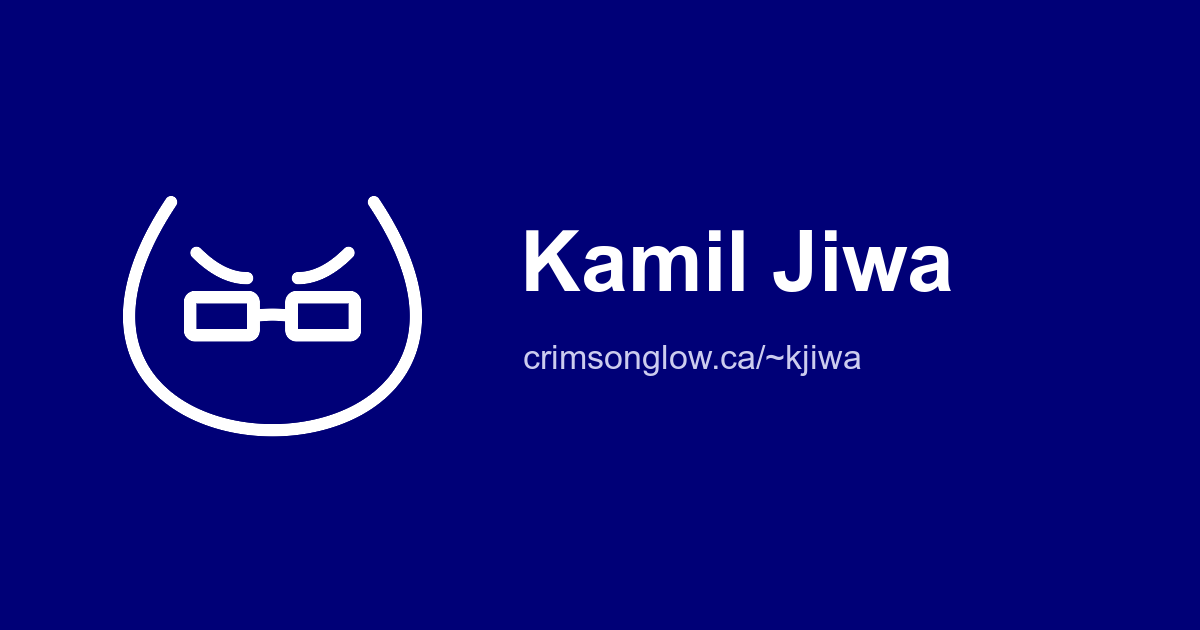
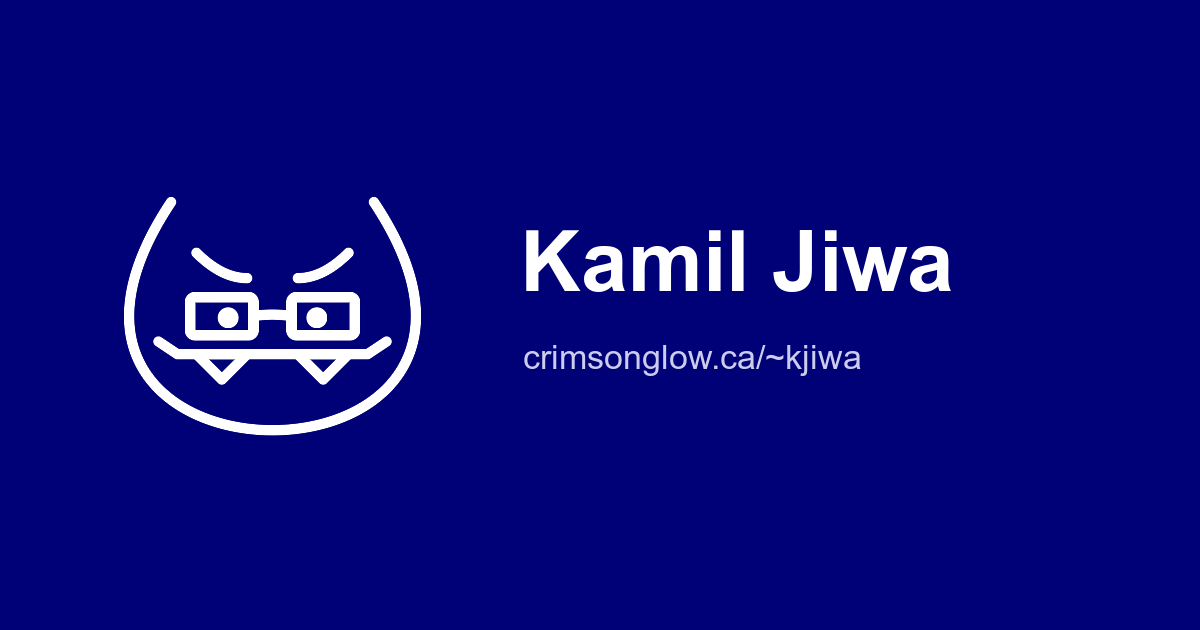
Update og-card

diff --git a/tools/og-card-glyph.py b/tools/og-card-glyph.py
@@ -1,33 +1,51 @@
 #!/usr/bin/env python3
 """Emits ImageMagick MVG draw commands for the face glyph on the social card.
 
-The glyph is the same head/glasses/eyebrows shapes used by
-_includes/avatar.svg and ~kjiwa/assets/favicon.svg, just carried through the
-same nested translate/scale transforms those files apply, then placed on the
-card canvas. See tools/og-card.sh for why this indirection exists.
+The glyph is the same head/glasses/eyebrows/eyes/mouth/teeth shapes used by
+_includes/avatar.svg, carried through the same nested translate/scale
+transforms that file applies, then placed on the card canvas. See
+tools/og-card.sh for why this indirection exists.
 
-Usage: og-card-glyph.py strokes|lenses
+_includes/avatar.svg wraps its shapes in <g transform="translate(5 5)">, so
+each shape's absolute anchor is its <use> translate plus (5, 5). The anchors
+below are those absolute positions; ~kjiwa/assets/favicon.svg's own <use>
+translates match this same frame for the shapes it keeps (head, glasses,
+eyebrows) but drops eyes/mouth/teeth for legibility at icon sizes. The card
+has room for the full set, so it draws from avatar.svg's frame directly.
+
+Usage: og-card-glyph.py strokes|lenses|eyes
 """
 
 import re
 import sys
 
-# Path data, unmodified from favicon.svg's <defs>.
+# Path/shape data, unmodified from avatar.svg's <defs>.
 HEAD = "M-20,-20 C-60,40 60,40 20,-20"
+MOUTH = "M-30,-2.5 L-25,0 L25,0 L30,-2.5"
+TOOTH = "M-5,0 L5,0 L0,5 Z"
 EYEBROW = "M-5,-2.5 Q0,2.5 5,2.5"
 BRIDGE = "M-3.75,0 Q0,-0.625 3.75,0"
 LENS_L = (-16.25, -3.75, -3.75, 3.75)  # x1, y1, x2, y2
 LENS_R = (3.75, -3.75, 16.25, 3.75)
+EYE_DX = 8.75  # circles at (+-8.75, 0), r = 1
+EYE_R = 1.0
+
+# Absolute anchors in avatar.svg's frame (each <use> translate + (5, 5)).
+A_HEAD = (35, 25)
+A_GLASSES = (35, 27.5)
+A_BROW_L = (25, 17.5)
+A_BROW_R = (45, 17.5)  # also mirrored in x
+A_EYES = (35, 27.8125)
+A_MOUTH = (35, 35)  # local x additionally scaled by 0.75
+A_TOOTH_L = (25, 35)
+A_TOOTH_R = (45, 35)
 
 # favicon.svg's group transform is translate(32,30.5) scale(0.845)
-# translate(-35,-25); each <use> adds its own translate before that, and the
-# two translates cancel except for the difference between them. Composing
-# the two leaves a plain (scale, then translate) per shape:
+# translate(-35,-25) applied on top of avatar.svg's frame; composing the two
+# leaves a plain (scale, then translate) per shape, anchored at (35, 25):
 FAV_SCALE = 0.845
-T_HEAD = (32, 30.5)
-T_GLASSES = (32, 32.6125)
-T_BROW_L = (23.55, 24.1625)
-T_BROW_R = (40.45, 24.1625)  # the right eyebrow is also mirrored in x
+FAV_ORIGIN = (32, 30.5)
+FAV_ANCHOR = (35, 25)
 
 # Placement on the 1200x630 card.
 SCALE = 6.0
@@ -35,16 +53,20 @@ ORIGIN = (80, 120)
 K = SCALE * FAV_SCALE
 
 
-def transform(point, base, flip=False):
+def transform(point, anchor, flip=False, xscale=1.0):
     x, y = point
+    x *= xscale
     if flip:
         x = -x
-    return (K * x + SCALE * base[0] + ORIGIN[0], K * y + SCALE * base[1] + ORIGIN[1])
+    ax, ay = anchor
+    fx = FAV_SCALE * (x + ax - FAV_ANCHOR[0]) + FAV_ORIGIN[0]
+    fy = FAV_SCALE * (y + ay - FAV_ANCHOR[1]) + FAV_ORIGIN[1]
+    return (SCALE * fx + ORIGIN[0], SCALE * fy + ORIGIN[1])
 
 
-def transform_path(d, base, flip=False):
+def transform_path(d, anchor, flip=False, xscale=1.0):
     def repl(m):
-        nx, ny = transform((float(m.group(1)), float(m.group(2))), base, flip)
+        nx, ny = transform((float(m.group(1)), float(m.group(2))), anchor, flip, xscale)
         return f"{nx:.2f},{ny:.2f}"
 
     return re.sub(r"(-?\d+\.?\d*),(-?\d+\.?\d*)", repl, d)
@@ -52,10 +74,13 @@ def transform_path(d, base, flip=False):
 
 def strokes():
     parts = [
-        f"path '{transform_path(HEAD, T_HEAD)}'",
-        f"path '{transform_path(BRIDGE, T_GLASSES)}'",
-        f"path '{transform_path(EYEBROW, T_BROW_L)}'",
-        f"path '{transform_path(EYEBROW, T_BROW_R, flip=True)}'",
+        f"path '{transform_path(HEAD, A_HEAD)}'",
+        f"path '{transform_path(MOUTH, A_MOUTH, xscale=0.75)}'",
+        f"path '{transform_path(TOOTH, A_TOOTH_L)}'",
+        f"path '{transform_path(TOOTH, A_TOOTH_R)}'",
+        f"path '{transform_path(BRIDGE, A_GLASSES)}'",
+        f"path '{transform_path(EYEBROW, A_BROW_L)}'",
+        f"path '{transform_path(EYEBROW, A_BROW_R, flip=True)}'",
     ]
     print(" ".join(parts))
 
@@ -64,11 +89,20 @@ def lenses():
     parts = []
     radius = K * 1  # rx = ry = 1 in the source rects
     for lens in (LENS_L, LENS_R):
-        x1, y1 = transform((lens[0], lens[1]), T_GLASSES)
-        x2, y2 = transform((lens[2], lens[3]), T_GLASSES)
+        x1, y1 = transform((lens[0], lens[1]), A_GLASSES)
+        x2, y2 = transform((lens[2], lens[3]), A_GLASSES)
         parts.append(f"roundrectangle {x1:.2f},{y1:.2f} {x2:.2f},{y2:.2f} {radius:.2f},{radius:.2f}")
     print(" ".join(parts))
 
 
+def eyes():
+    radius = K * EYE_R
+    parts = []
+    for dx in (-EYE_DX, EYE_DX):
+        cx, cy = transform((dx, 0), A_EYES)
+        parts.append(f"circle {cx:.2f},{cy:.2f} {cx:.2f},{cy - radius:.2f}")
+    print(" ".join(parts))
+
+
 if __name__ == "__main__":
-    {"strokes": strokes, "lenses": lenses}[sys.argv[1]]()
+    {"strokes": strokes, "lenses": lenses, "eyes": eyes}[sys.argv[1]]()
